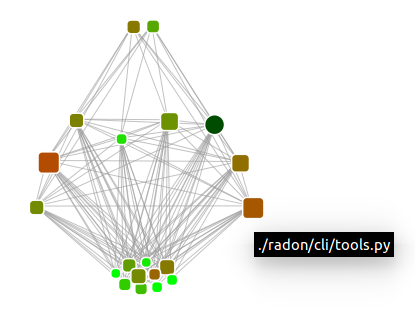
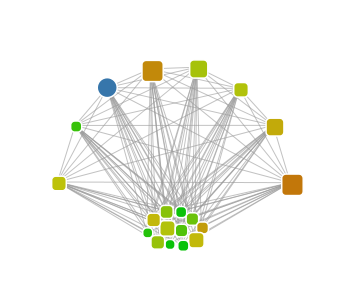
rectangles(modules) now uses the d3.hsb() function to generate each rectangle color

Changed region(s): [[0.0608, 0.0612, 0.9724, 0.949]]

diff --git a/nicolas/canvas/hand.js b/nicolas/canvas/hand.js
@@ -39,7 +39,7 @@ d3.json("data.json", function(json) {
       				.attr("cx", function(d) { return d.x - d.size; })
       				.attr("cy", function(d) { return d.y - d.size; })
 					.attr('r', function(d) { return d.size; })
-					.style("fill", function(d) {return d.color; })
+					.style("fill", function(d) { return d.color;})
       			.call(force.drag);
 
 	var rectangles = svgContainer.selectAll("rect.node")
@@ -53,7 +53,7 @@ d3.json("data.json", function(json) {
 					.attr('ry', 4)
 					.attr("width", function(d) { return 2.5066*d.size; })
       				.attr("height", function(d) { return 2.5066*d.size; })
-					.style("fill", function(d) {return d.color; })
+					.style("fill", function(d) { return d3.hsl(d.color); })
       			.call(force.drag);
 
 
